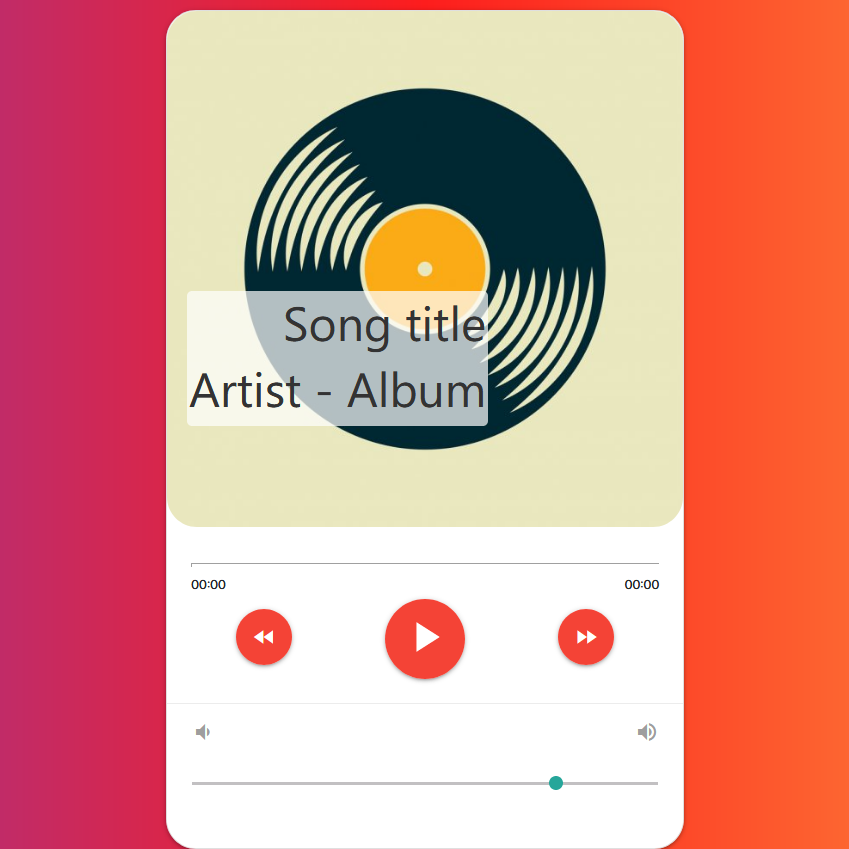
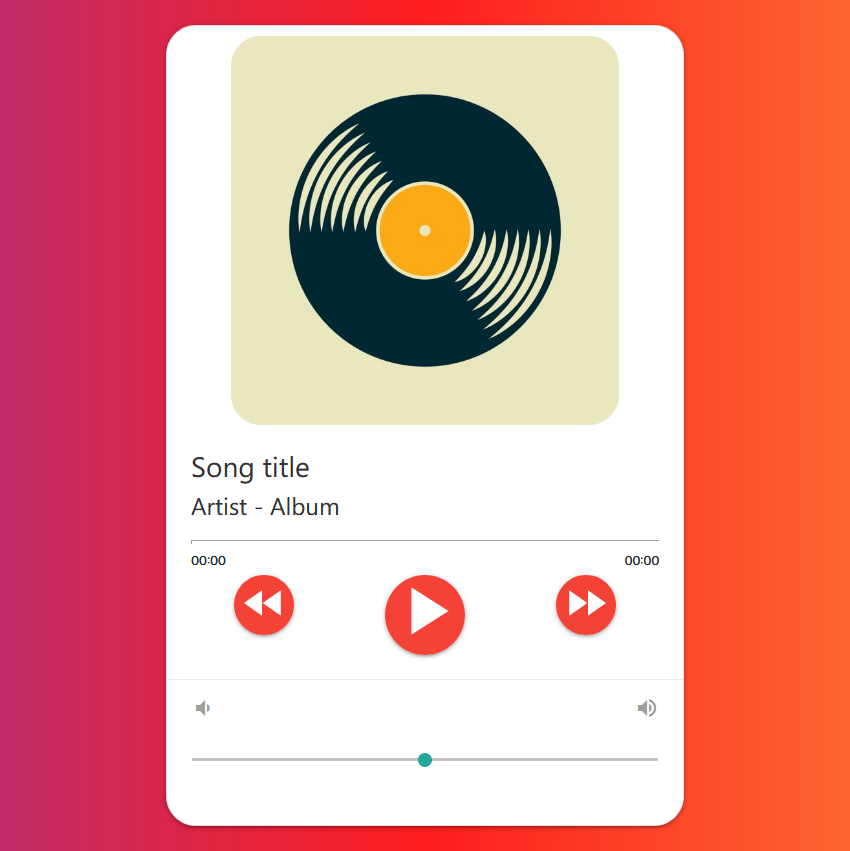
fixed music player styling

diff --git a/musicplayer-d9/style.css b/musicplayer-d9/style.css
@@ -28,16 +28,6 @@ html {
     border-radius: 30px;
 }
 
-.song-text-block {
-    background-color: rgba(255, 255, 255, 0.7);
-    padding: 2px;
-    border-radius: 5px;
-    width: max-content;
-    text-align: end;
-    display: inline-block;
-    margin-bottom: 30%;
-}
-
 #playpause {
     font-size: 50px;
 }
@@ -69,27 +59,19 @@ progress::-webkit-progress-value {
     .card {
         width: 30%;
         margin: auto;
-        margin-top: 10px;
-        margin-bottom: 10px;
+        margin-top: 5%;
+        margin-bottom: 5%;
         border-radius: 30px;
     }
     .card-img {
-        width: 100%;
-        height: 100%;
-    }
-    .song-text-block {
-        background-color: rgba(255, 255, 255, 0.7);
-        padding: 2px;
-        border-radius: 5px;
-        width: max-content;
-        text-align: end;
-        display: inline-block;
-        margin-bottom: 30%;
+        width: 80%;
+        height: 80%;
+        margin: auto;
+        margin-top: 10px;
     }
     #playpause {
-        padding: 10px;
-        margin-top: 10px;
         font-size: 80px;
+        margin-top: 10%;
     }
     #previous {
         font-size: 50px;
@@ -107,21 +89,12 @@ progress::-webkit-progress-value {
     .card {
         width: 60%;
         margin: auto;
-        margin-top: 10px;
+        margin-top: 20%;
         border-radius: 30px;
     }
     .card-img {
         width: 100%;
         height: 110%;
-    }
-    .song-text-block {
-        background-color: rgba(255, 255, 255, 0.7);
-        padding: 2px;
-        border-radius: 5px;
-        width: max-content;
-        text-align: end;
-        display: inline-block;
-        margin-bottom: 30%;
     }
     h2,
     h6 {
@@ -133,21 +106,23 @@ progress::-webkit-progress-value {
     .card {
         width: 60%;
         margin: auto;
-        margin-top: 10px;
+        margin-top: 20%;
         border-radius: 30px;
+        transform: scaleX(1.22) scaleY(1.3);
     }
     .card-img {
         width: 100%;
         height: 110%;
     }
-    .song-text-block {
-        background-color: rgba(255, 255, 255, 0.7);
-        padding: 2px;
-        border-radius: 5px;
-        width: max-content;
-        text-align: end;
-        display: inline-block;
-        margin-bottom: 30%;
+    #playpause {
+        font-size: 80px;
+        margin-top: 10%;
+    }
+    #previous {
+        font-size: 50px;
+    }
+    #next {
+        font-size: 50px;
     }
     h2,
     h6 {
@@ -158,35 +133,25 @@ progress::-webkit-progress-value {
 @media screen and (max-device-width: 414px) {
     .card {
         width: 80%;
-        height: 80%;
+        margin: auto;
+        margin-top: 30%;
+        border-radius: 30px;
+        transform: scaleX(1.22) scaleY(1.3);
+    }
+    .card-img {
+        width: 80%;
         margin: auto;
         margin-top: 10px;
-        border-radius: 30px;
-    }
-    .card-img>img {
-        width: 100%;
-    }
-    .song-text-block {
-        background-color: rgba(255, 255, 255, 0.7);
-        padding: 2px;
-        border-radius: 5px;
-        width: max-content;
-        text-align: end;
-        display: inline-block;
-        margin-bottom: 30%;
-    }
-    .card-content {
-        margin-top: -70%;
     }
     #playpause {
-        font-size: 100px;
-        margin-top: 20px;
+        font-size: 80px;
+        margin-top: 10%;
     }
     #previous {
-        font-size: 70px;
+        font-size: 50px;
     }
     #next {
-        font-size: 70px;
+        font-size: 50px;
     }
     h2,
     h6 {

diff --git a/musicplayer-d9/musicplayer.html b/musicplayer-d9/musicplayer.html
@@ -29,18 +29,15 @@
         <audio id="player" ontimeupdate="initProgressBar()">
             <source src="" type="audio/mp3">
           </audio>
-
-        <div class="card-img">
-            <img src="vinyl-blank.jpg" id="albumart">
-            <div class="card-img-overlay text-white d-flex flex-column justify-content-center">
-                <div class="song-text-block">
-                    <h2>Song title</h2>
-                    <h6>Artist - Album</h6>
-                </div>
+        <div class="container">
+            <div class="card-img">
+                <img src="vinyl-blank.jpg" id="albumart">
             </div>
         </div>
-
         <div class="card-content">
+
+            <h3>Song title</h3>
+            <h4>Artist - Album</h4>
             <!--seek bar/progressbar-->
             <span id="seekObjContainer">
                 <progress id="seekObj" value="0" max="1"></progress>
@@ -51,13 +48,13 @@
             <br>
             <div class="uk-grid-small uk-child-width-expand@s uk-text-center" uk-grid>
                 <div>
-                    <a class="btn-floating btn-large waves-effect waves-light red" style="width: 80px; height:80px;"><i class="material-icons" id="previous"  style="margin-top: 10px;" onclick="getPrevSong()">fast_rewind</i></a>
+                    <a class="btn-floating btn-large waves-effect waves-light red" style="width: 60px; height:60px;"><i class="material-icons" id="previous"  onclick="getPrevSong()">fast_rewind</i></a>
                 </div>
                 <div>
-                    <a class="btn-floating btn-large waves-effect waves-light red" style="width: 100px; height:100px;"><i class="material-icons"  id="playpause"  onclick="playPause(this)">play_arrow</i></a>
+                    <a class="btn-floating btn-large waves-effect waves-light red" style="width: 80px; height:80px;"><i class="material-icons"  id="playpause"  onclick="playPause(this)">play_arrow</i></a>
                 </div>
                 <div>
-                    <a class="btn-floating btn-large waves-effect waves-light red" style="width: 80px; height:80px;"><i class="material-icons" id="next" style="margin-top: 10px;" onclick="getNextSong()">fast_forward</i></a>
+                    <a class="btn-floating btn-large waves-effect waves-light red" style="width: 60px; height:60px;"><i class="material-icons" id="next"  onclick="getNextSong()">fast_forward</i></a>
                 </div>
             </div>
 
